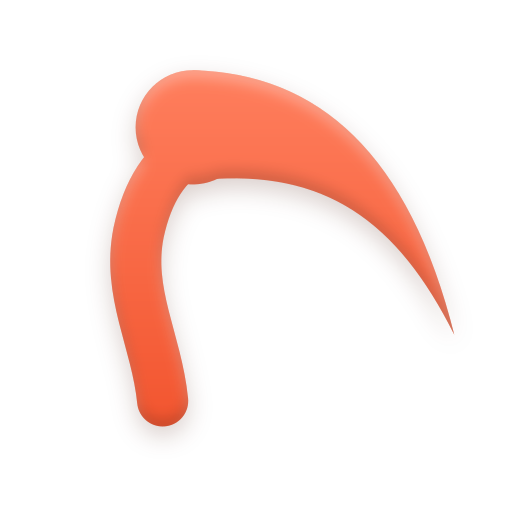
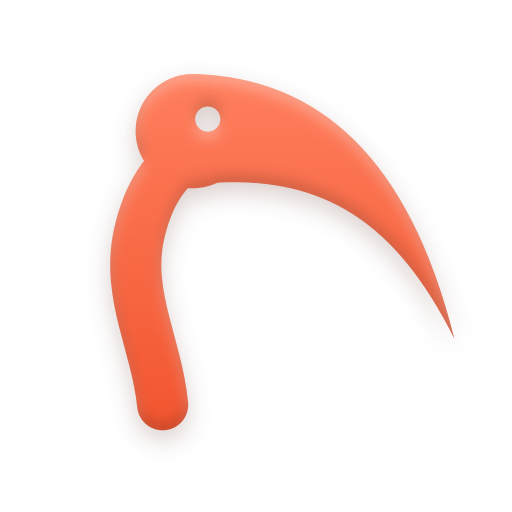
docs: restore the bird's eye in the brand master
Add the eye from the approved app icon as its own symbol and cut it
out of the mark, so the background shows through on light and dark.
Favicons leave it out, as the app's small icon does. Halve the
vertical optical lift so the bird sits a little lower in containers.

Closes #1003

Claude-Session: https://claude.ai/code/session_01DmkBNZFY1Uy3f48ZBUWLdU

diff --git a/brand/build.py b/brand/build.py
@@ -150,9 +150,21 @@ def draw(name, k, tx, ty, paint, uid, depth=False, neck=None):
                 + depth_filter(f"{uid}f", SYM[name][0]))
         paint, attr = f"url(#{uid}g)", f' filter="url(#{uid}f)"'
     if neck:
-        body = thicken(body, neck)
+        body = thicken(body, neck)       # favicon sizes: no eye, as in the app's small icon
+    elif name == "mark":
+        mask, body = cut_eye(body, uid)
+        defs += mask
     body = body.replace("currentColor", paint)
     return defs, f'<g transform="translate({tx:.3f} {ty:.3f}) scale({k:.5f})"><g{attr}>{body}</g></g>'
+
+
+def cut_eye(body, uid):
+    """Cut the eye out of the bird, so whatever is behind it shows through on any background."""
+    bx, by, bw, bh = SYM["mark"][0]
+    eye = SYM["eye"][1].replace("currentColor", "#000")
+    box = f'x="{bx - 1:g}" y="{by - 1:g}" width="{bw + 2:g}" height="{bh + 2:g}"'
+    return (f'<mask id="{uid}e" maskUnits="userSpaceOnUse" {box}><rect {box} fill="#fff"/>{eye}</mask>',
+            f'<g mask="url(#{uid}e)">{body}</g>')
 
 
 def place(name, x, y, height, paint, uid, depth=False):

diff --git a/brand/README.md b/brand/README.md
@@ -30,7 +30,8 @@ M is the height of the bird.
 - **Space.** Every file already keeps 0.135 M free on each side for the soft shadow. On a page, keep at least 0.25 M clear around the logo.
 - **Logo.** The wordmark's capital height is 0.55 M, centred on the bird, with 0.34 M between the beak tip and "Ibis". Show it about 240 px wide in a README. When the bird would be under 24 px tall, use the bird alone.
 - **In a container.** The bird is 62% of the height of an app icon, avatar or maskable icon. Favicons use the largest bird that fits.
-- **Optical centre.** The bird's weight is in its head, so its outline's centre looks too far left. Square files and containers move it sideways halfway toward its centre of mass (which `build.py` measures from the master) and, vertically, keep the outline's centre lifted 1.5% of the container, a little above the middle.
+- **Optical centre.** The bird's weight is in its head, so its outline's centre looks too far left. Square files and containers move it sideways halfway toward its centre of mass (which `build.py` measures from the master) and, vertically, keep the outline's centre lifted 0.75% of the container, just above the middle.
+- **Eye.** The bird has an eye, cut out so the background shows through it. Favicons leave it out, because it would be under a pixel.
 - **Depth.** The soft depth is for 48 px and up; smaller uses the flat bird. Favicons use a slightly thicker neck so the bird still reads at 16 px.
 - **Colour.** Scarlet 600 `#C23A1C` on light backgrounds and Scarlet 400 `#FF7A5C` on dark. Text is Ink `#16181D` or Slate `#4C5260` on light, and near-white on dark. The full Scarlet scale (50 to 900) is for websites and videos: tints for backgrounds, 600 to 800 for text and links on light. Never stretch, outline or recolour the bird in other hues, or add effects.
 - **Themes.** Websites use `colors.css`: light by default, dark when the system is dark, and an optional dim theme (`data-theme="dim"`) for a softer charcoal. Each theme names the same roles: `bg`, `surface`, `line`, `text`, `muted`, `accent`, `accent-soft`.
@@ -42,7 +43,7 @@ M is the height of the bird.
 Two files hold everything you might want to change:
 
 - `settings.json`: every colour, size, spacing, depth (rim light, shade and shadow), animation timing and line of text, with plain names. Small adjustments happen here.
-- `master.svg`: the three shapes as exact outlines with no padding: the bird (`mark`), the wordmark (`wordmark`, Inter Display SemiBold, outlined) and the quote mark (`beak`). Edit it only to change a shape.
+- `master.svg`: the three shapes as exact outlines with no padding: the bird (`mark`), its eye (`eye`), the wordmark (`wordmark`, Inter Display SemiBold, outlined) and the quote mark (`beak`). Edit it only to change a shape.
 
 After editing either, rebuild every export from the repository root:
 
